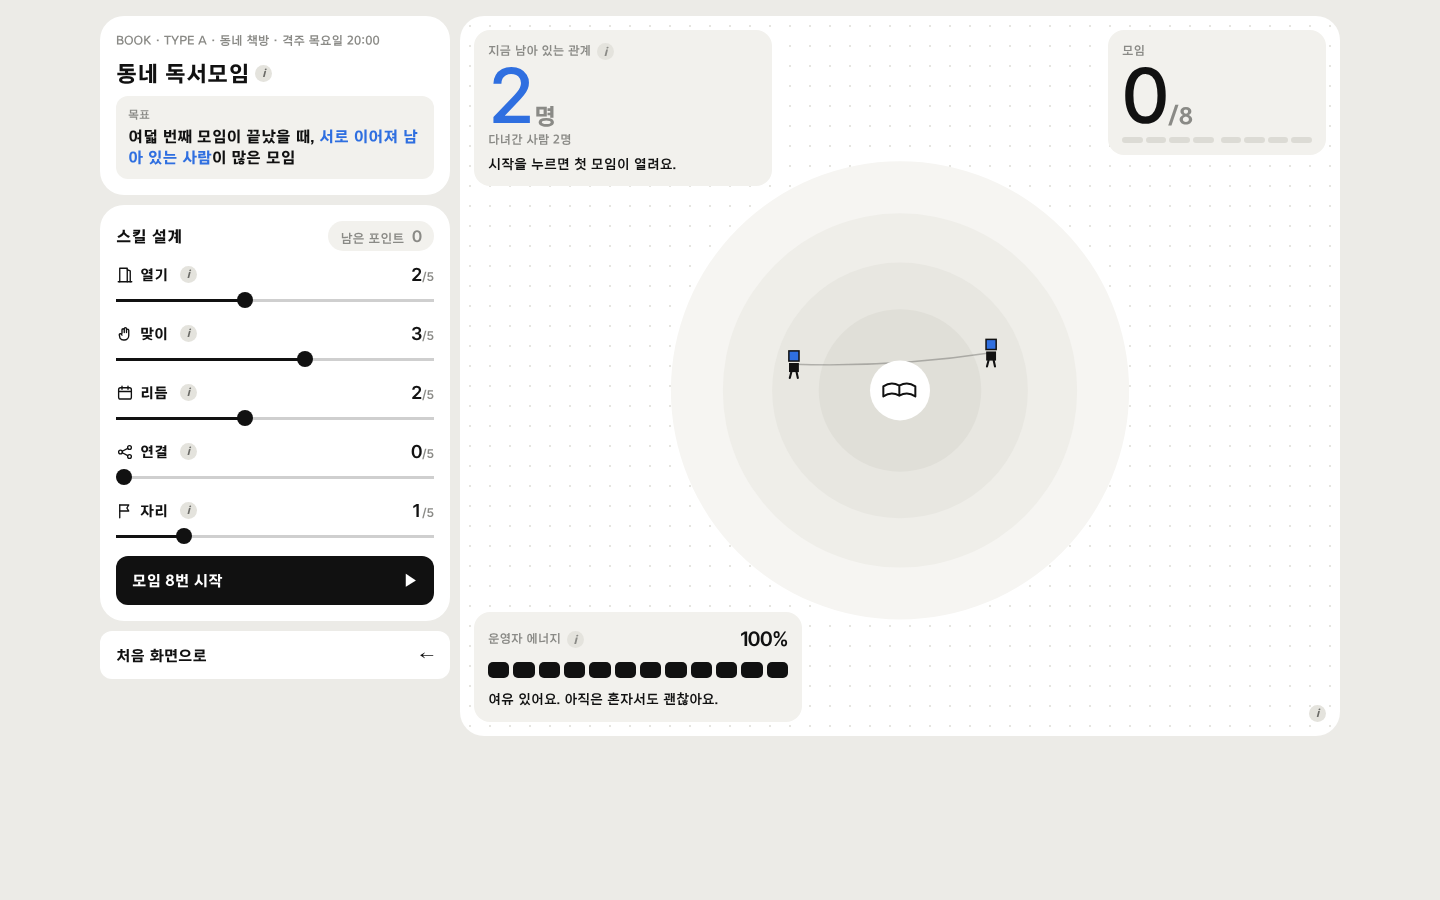
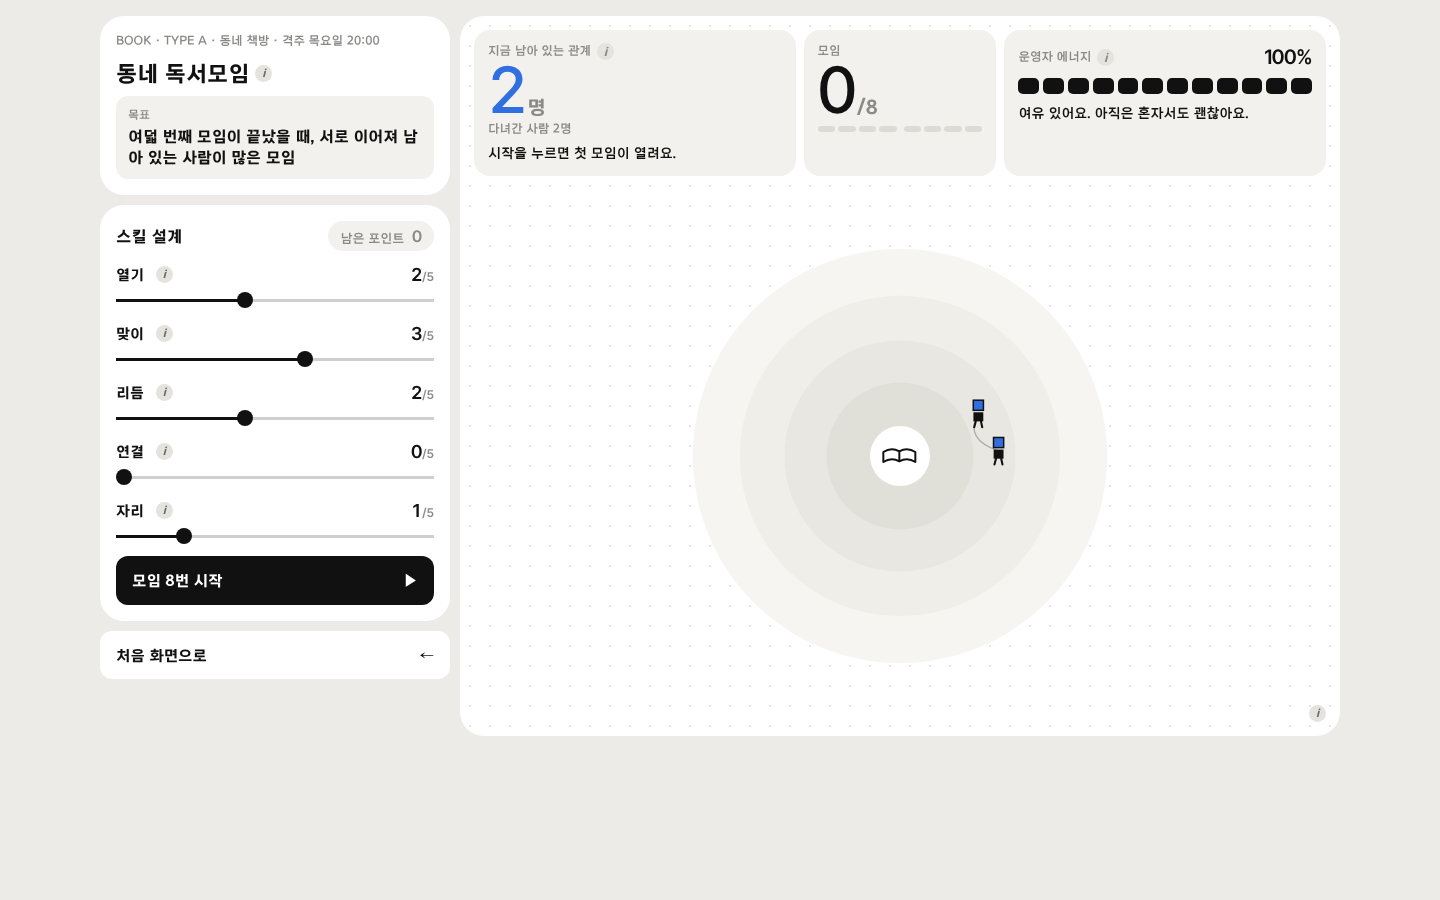
게임 v1.2 시안: 결과 세 개를 한 줄로 묶고, 파랑은 남은 관계 숫자와 사람에만, 스킬 아이콘 삭제
Claude-Session: https://claude.ai/code/session_01SaCvLutmawHZS3kxPWYxw7

diff --git a/thesis/game/moim.v07.src.html b/thesis/game/moim.v07.src.html
@@ -478,7 +478,7 @@ body{background:var(--page)}
 
 /* ───────── v1.1 결과는 동심원 쪽, 강조색은 하나, 스킬은 아이콘 ───────── */
 :root{--accent:#2f6fe0}
-.goal3 mark{box-shadow:none;color:var(--accent)}
+.goal3 mark{box-shadow:none;color:inherit;background:none}
 .sic{width:18px;height:18px;flex:none}
 .sk-name{gap:6px}
 .c2-skill .cell b .sic{width:16px;height:16px}
@@ -499,6 +499,17 @@ body{background:var(--page)}
 .ov .info .tip{z-index:30}
 .ov-e .info .tip{top:auto;bottom:calc(100% + 8px)}
 .lvl2{background:#eef3ff}
+
+/* ───────── v1.2 결과 세 개는 동심원 위에 한 줄로 묶음 ───────── */
+.ovbar{position:absolute;left:14px;right:14px;top:14px;display:grid;grid-template-columns:minmax(0,1.25fr) minmax(0,.75fr) minmax(0,1.25fr);gap:8px;z-index:2}
+@media (max-width:1100px){.ovbar{grid-template-columns:minmax(0,1fr) minmax(0,1fr)}.ovbar .ov-e{grid-column:1/-1}}
+.ovbar .ov{position:static;width:auto;align-content:start}
+.ovbar .ov-e{gap:6px}
+.ovbar .hero-n{font-size:clamp(44px,4.6vw,64px)}
+.ovbar .ov-r .hero-n{color:var(--ink)}
+.ovbar .info .tip{top:calc(100% + 8px);bottom:auto}
+.ovbar .ov-e .info .tip{left:auto;right:-8px}
+.ovbar .ov-e .gauge{margin-top:auto}
 @media (prefers-reduced-motion:reduce){*{transition:none!important;animation:none!important}}
 </style>
 
@@ -876,9 +887,9 @@ function renderTool(){
     <div class="panel" id="panel"></div>
     <div class="canvas-wrap"><canvas id="cv" role="img" aria-label="모임 현장: 바깥에서 안쪽으로 처음 온 사람, 다시 온 사람, 자리 잡은 사람, 함께 이끄는 사람"></canvas>
       <div class="c-top"><span><span class="latin">${T.en}</span> · ${T.name} · <span id="mt"></span></span></div>
-      <div class="ov ov-l"><small>지금 남아 있는 관계${info('파란 머리의 사람: 자리 잡았거나 함께 이끄는 사람이에요.')}</small><b class="hero-n" id="ovN"></b><span id="ovT"></span><p class="msg" id="ovMsg"></p></div>
+      <div class="ovbar" id="ovbar"><div class="ov ov-l"><small>지금 남아 있는 관계${info('파란 머리의 사람: 자리 잡았거나 함께 이끄는 사람이에요.')}</small><b class="hero-n" id="ovN"></b><span id="ovT"></span><p class="msg" id="ovMsg"></p></div>
       <div class="ov ov-r"><small>모임</small><b class="hero-n" id="ovM"></b><span class="steps" id="ovS"></span></div>
-      <div class="ov ov-e" id="ovE"></div>
+      <div class="ov ov-e" id="ovE"></div></div>
       <div class="c-cap"><span id="cap"></span><span class="c-key2">${info(`바깥에서 안쪽으로 ${STAGE_NAMES.join(' → ')}. 선은 사람 사이의 관계예요. 가운데는 모임이 함께하는 활동이에요. 사람들은 운영자가 아니라 활동을 가운데 두고 모여요.`)}</span>
         <span class="c-key">${STAGE_NAMES.map((n,i)=>`<span><i class="dot" style="background:${STAGE_C[i]};${i===0?'box-shadow:inset 0 0 0 1.5px #9a9a96':''}"></i>${n}</span>`).join('')}<span><i style="width:18px;height:2px;background:#9a9a9a;display:inline-block;border-radius:2px"></i>관계 (새로 생기면 주황)</span><span><i class="sq" style="background:${COL.ink};border-radius:50%"></i>나와 에너지</span></span></div></div></div>
     <div class="hints"><span class="dots">●●●●</span><span>NAVIGATION</span><span><kbd>×</kbd>슬라이더로 포인트 나누기</span><span><kbd>○</kbd>모임 시작</span><span><kbd>←</kbd>처음 화면</span><span class="r">${T.code} · ${T.name} · 은유적 모델이에요</span></div>`;
@@ -940,7 +951,7 @@ function renderPanel(){
       <div class="ph"><h3>스킬 설계</h3>${editable?`<span class="pts3 ${st.points?'':'zero'}">남은 포인트 <b>${st.points}</b></span>`:`<span class="pts3 zero">진행 중</span>`}</div>
       ${lv?`<div class="lvl2"><small>LEVEL UP · 모임 4번 뒤 진단</small><div class="row2"><b class="hero-n">+${st.gain}</b><span>포인트</span></div><p>${diagnosis()}</p></div>`:''}
       ${SKILLS.map(s=>{const v=st.skills[s.k],lk=st.lock[s.k];return `<div class="sk">
-        <div class="sk-row"><span class="sk-name">${sicon(s.k)}<label for="r-${s.k}">${s.name}</label>${info(`${s.sub}${s.down?`<br><span class="neg">${s.down}</span>`:''}`)}</span><span class="sk-val">${v}<em>/${MAXLV}</em>${v>lk&&lv?`<ins>+${v-lk}</ins>`:''}</span></div>
+        <div class="sk-row"><span class="sk-name"><label for="r-${s.k}">${s.name}</label>${info(`${s.sub}${s.down?`<br><span class="neg">${s.down}</span>`:''}`)}</span><span class="sk-val">${v}<em>/${MAXLV}</em>${v>lk&&lv?`<ins>+${v-lk}</ins>`:''}</span></div>
         <input type="range" id="r-${s.k}" data-k="${s.k}" min="0" max="${MAXLV}" step="1" value="${v}" style="--fill:${v/MAXLV*100}%;--c:${s.c}" ${editable?'':'disabled'}></div>`;}).join('')}
       ${editable?`<button class="btn" id="go"><span>${lv?'남은 모임 4번 진행':'모임 8번 시작'}</span><span>▶</span></button>`:`<button class="btn" disabled><span>모임 진행 중</span><span>…</span></button>`}
     </section>
@@ -998,7 +1009,7 @@ function figure(x,y,r,head,hollow,a){
 function loop(){
   if(!st||!canvas||!document.body.contains(canvas))return;
   sizeCanvas();
-  const W=canvas.width,H=canvas.height,d=window.devicePixelRatio||1,S=Math.min(W,H)/2*.74,cx=W/2,cy=H/2+Math.min(W,H)*.02;
+  const d=window.devicePixelRatio||1,W=canvas.width,H=canvas.height,ob=document.getElementById('ovbar'),top=ob?(ob.offsetTop+ob.offsetHeight)*d:0,AH=H-top,S=Math.min(W,AH)/2*.86,cx=W/2,cy=top+AH/2;
   ctx.clearRect(0,0,W,H);
   // 구역: 검은 실선 동심원
   const B=[.86,.665,.48,.305,.09];
@@ -1014,7 +1025,7 @@ function loop(){
     const ax=cx+a.x*S,ay=cy+a.y*S,bx=cx+b.x*S,by=cy+b.y*S,qx=cx+(a.x+b.x)/2*S*.72,qy=cy+(a.y+b.y)/2*S*.72;
     ctx.lineCap='round';ctx.globalAlpha=Math.min(a.alpha,b.alpha);
     ctx.strokeStyle='rgba(17,17,17,.26)';ctx.lineWidth=1.4*d;ctx.beginPath();ctx.moveTo(ax,ay);ctx.quadraticCurveTo(qx,qy,bx,by);ctx.stroke();
-    if(fresh>0){ctx.strokeStyle=ACC;ctx.globalAlpha=Math.min(a.alpha,b.alpha)*fresh;ctx.lineWidth=2.6*d;ctx.beginPath();ctx.moveTo(ax,ay);ctx.quadraticCurveTo(qx,qy,bx,by);ctx.stroke();}}
+    if(fresh>0){ctx.strokeStyle='rgba(17,17,17,.75)';ctx.globalAlpha=Math.min(a.alpha,b.alpha)*fresh;ctx.lineWidth=2.6*d;ctx.beginPath();ctx.moveTo(ax,ay);ctx.quadraticCurveTo(qx,qy,bx,by);ctx.stroke();}}
   ctx.globalAlpha=1;
   // 가운데: 모임이 함께하는 활동 (모임 고르기 카드의 그림과 같은 선)
   ctx.beginPath();ctx.arc(cx,cy,30*d,0,Math.PI*2);ctx.fillStyle='#ffffff';ctx.fill();
@@ -1056,7 +1067,7 @@ function renderReport(){
         <div class="cell"><small>관계의 선</small><b>${r.links}개</b></div>
         <div class="cell"><small>함께 이끄는 사람</small><b>${r.leaders}명</b></div>
         <div class="cell"><small>운영자 에너지</small><b style="${r.energy<30?'color:var(--red)':''}">${r.energy}%</b></div></div>
-      <div class="cgrid c2-skill">${SKILLS.map(s=>`<div class="cell"><small>${s.name}</small><b>${sicon(s.k)}${k[s.k]}</b></div>`).join('')}</div>
+      <div class="cgrid c2-skill">${SKILLS.map(s=>`<div class="cell"><small>${s.name}</small><b>${k[s.k]}</b></div>`).join('')}</div>
       <div class="mm2"><span class="h">공동체 의식 · McMillan &amp; Chavis(1986)의 네 요소 (은유적 추정)</span>
         ${Object.entries(g).map(([n,x])=>`<div class="r"><span>${n}</span><span class="bar"><i style="width:${x}%"></i></span></div>`).join('')}</div>
     </div>

diff --git a/thesis/26-game-prototype.md b/thesis/26-game-prototype.md
@@ -114,3 +114,9 @@
 - 스킬 아이콘(선): 열기 = 열린 문, 맞이 = 손, 리듬 = 달력, 연결 = 이어진 점, 자리 = 깃발 (결과 화면에도 같은 아이콘)
 - 동심원 구역 이름 삭제((i) 읽는 법으로)
 - 가운데: '나'(운영자) 대신 모임이 함께하는 활동(책·달리기 길·하천길). 근거: 활동이 관계의 매개(D06), 운영이 한 사람에게 몰리지 않아야 함(H9). 운영자는 에너지 상자로만 등장 (연구자 해석)
+
+## v1.2 시안 (2026-10-28, 같은 파일, 컨펌 대기)
+- 연구자 피드백: v1.1이 더 별로. 스킬 아이콘 삭제, 결과 세 개를 네 모서리에 흩어 놓은 배치가 이상함, 파란 글씨의 기준이 무엇인지
+- 결과 세 개(남은 관계·모임·운영자 에너지)를 동심원 위 한 줄로 묶음. 원은 그 아래 남은 공간의 가운데 (좁은 화면에서는 2줄)
+- 파랑 기준 다시 정함: "세는 대상과 그 숫자"에만 = 남은 관계 숫자와 그 숫자에 세어지는 사람(파란 머리). 목표 문구와 새 관계 선의 파랑은 뺌
+- 스킬 아이콘 삭제(이름만)
